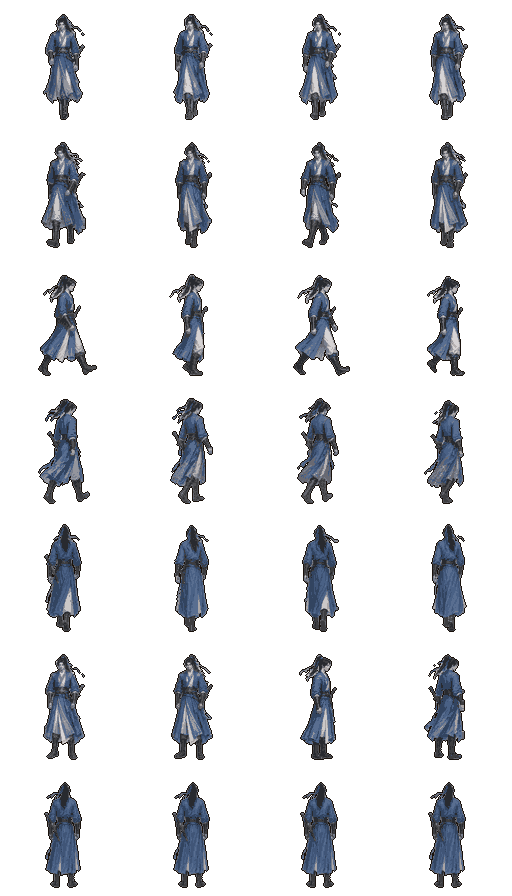
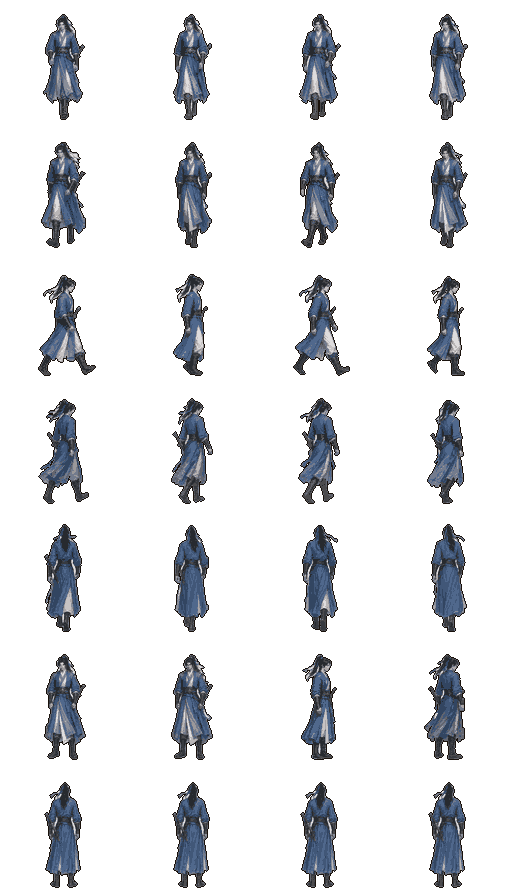
Hero eight-way walk: all eight heroes painted, turn hold on key release, specks and white robes kept
Claude-Session: https://claude.ai/code/session_015NF6nczcB9pq1DHZKmDsF7

diff --git a/scripts/build-hero-walk8.ts b/scripts/build-hero-walk8.ts
@@ -43,7 +43,9 @@ const alphaAt = (r: Raster, x: number, y: number) => r.data[(y * r.w + x) * 4 + 
 
 /** Split a strip into figures at runs of empty columns; tiny slivers (a stray ribbon) join their neighbour. */
 function splitFigures(r: Raster, expected: number): { x0: number; x1: number }[] {
-  const filled = Array.from({ length: r.w }, (_, x) => { for (let y = 0; y < r.h; y++) if (alphaAt(r, x, y) > 40) return true; return false; });
+  // A column belongs to a figure when it has more than a few solid pixels: stray
+  // ribbon wisps and soft edges must not bridge the gap between two figures.
+  const filled = Array.from({ length: r.w }, (_, x) => { let n = 0; for (let y = 0; y < r.h; y++) if (alphaAt(r, x, y) > 110) n++; return n > 6; });
   let spans: { x0: number; x1: number }[] = [];
   for (let x = 0; x < r.w; x++) {
     if (!filled[x]) continue;
@@ -86,7 +88,21 @@ async function cell(f: Figure, scale: number): Promise<Raster> {
   const src = await raster(reduced);
   const out: Raster = { w: CELL, h: CELL, data: new Uint8ClampedArray(CELL * CELL * 4) };
   const left = Math.round(CELL / 2 - f.anchor * scale), top = FEET - h;
-  const solid = (x: number, y: number) => x >= 0 && y >= 0 && x < src.w && y < src.h && alphaAt(src, x, y) >= 110;
+  // Specks cut loose from a ribbon tip (under 24 px) are dropped.
+  const keep = new Uint8Array(src.w * src.h);
+  const seen = new Uint8Array(src.w * src.h);
+  for (let start = 0; start < src.w * src.h; start++) {
+    if (seen[start] || src.data[start * 4 + 3] < 110) continue;
+    const part = [start]; seen[start] = 1;
+    for (let k = 0; k < part.length; k++) {
+      const p = part[k], x = p % src.w, y = (p / src.w) | 0;
+      for (const q of [x > 0 ? p - 1 : -1, x < src.w - 1 ? p + 1 : -1, y > 0 ? p - src.w : -1, y < src.h - 1 ? p + src.w : -1]) {
+        if (q >= 0 && !seen[q] && src.data[q * 4 + 3] >= 110) { seen[q] = 1; part.push(q); }
+      }
+    }
+    if (part.length >= 24) for (const p of part) keep[p] = 1;
+  }
+  const solid = (x: number, y: number) => x >= 0 && y >= 0 && x < src.w && y < src.h && keep[y * src.w + x] === 1;
   for (let y = 0; y < CELL; y++) for (let x = 0; x < CELL; x++) {
     const sx = x - left, sy = y - top, o = (y * CELL + x) * 4;
     if (solid(sx, sy)) {
@@ -107,9 +123,12 @@ for (const hero of PLAYER_CHARACTER_IDS) {
     for (let y = 0; y < CELL; y++) sheet.data.set(c.data.subarray(y * CELL * 4, (y + 1) * CELL * 4), ((oy + y) * sheet.w + ox) * 4);
   };
   for (const [row, dir] of WALK8_DIRECTIONS.entries()) {
-    const strip = await cutOut(`${from}/${hero}/${dir}.png`);
+    // White and pale robes have flat near-white folds: only large, pure-background pockets (between the legs) go.
+    const strip = await cutOut(`${from}/${hero}/${dir}.png`, { pocketTolerance: 4, pocketMin: 400 });
     const r = await raster(strip);
-    const figures = await Promise.all(splitFigures(r, 5).map((span) => figure(strip, r, span)));
+    let spans;
+    try { spans = splitFigures(r, 5); } catch (error) { throw new Error(`${hero}/${dir}.png: ${(error as Error).message} (repaint this strip)`); }
+    const figures = await Promise.all(spans.map((span) => figure(strip, r, span)));
     // One scale per strip: the standing figure is FIGURE px tall, and no pose is wider than the cell allows.
     const scale = Math.min(FIGURE / figures[0].h, ...figures.map((f) => MAX_W / f.w), ...figures.map((f) => (FEET - 2) / f.h));
     const cells = await Promise.all(figures.map((f) => cell(f, scale)));

diff --git a/scripts/test-npc-sheets.ts b/scripts/test-npc-sheets.ts
@@ -157,19 +157,33 @@ await check("heroes: an eight-way walk sheet each — 28 drawn cells, every dire
     const { data, info } = await sharp(file).ensureAlpha().raw().toBuffer({ resolveWithObject: true });
     assert.equal(info.width, 512, file);
     assert.equal(info.height, 7 * 128, file);
-    const cells: Int32Array[] = [];
+    const cells: Uint8Array[] = [];
     for (let cell = 0; cell < 28; cell++) {
       const ox = (cell % 4) * 128, oy = Math.floor(cell / 4) * 128;
-      const mask = new Int32Array(128 * 128);
+      const px = new Uint8Array(128 * 128 * 4);
       let opaque = 0;
-      for (let y = 0; y < 128; y++) for (let x = 0; x < 128; x++) if (data[((oy + y) * 512 + ox + x) * 4 + 3] >= 128) { mask[y * 128 + x] = 1; opaque++; }
+      for (let y = 0; y < 128; y++) for (let x = 0; x < 128; x++) {
+        const i = ((oy + y) * 512 + ox + x) * 4;
+        if (data[i + 3] < 128) continue;
+        opaque++;
+        px.set([data[i], data[i + 1], data[i + 2], 255], (y * 128 + x) * 4);
+      }
       assert.ok(opaque > 1200, `${file} cell ${cell} has a figure (${opaque} px)`);
-      cells.push(mask);
+      cells.push(px);
     }
-    const differ = (a: Int32Array, b: Int32Array) => { let d = 0, n = 0; for (let i = 0; i < a.length; i++) { if (a[i] || b[i]) n++; if (a[i] !== b[i]) d++; } return d / Math.max(1, n); };
+    // Share of the figures' pixels that differ (outline, shape or colour).
+    const differ = (a: Uint8Array, b: Uint8Array) => {
+      let d = 0, n = 0;
+      for (let i = 0; i < a.length; i += 4) {
+        if (!a[i + 3] && !b[i + 3]) continue;
+        n++;
+        if (a[i + 3] !== b[i + 3] || Math.abs(a[i] - b[i]) + Math.abs(a[i + 1] - b[i + 1]) + Math.abs(a[i + 2] - b[i + 2]) > 60) d++;
+      }
+      return d / Math.max(1, n);
+    };
     // The five standing poses (S, SE, E, NE, N) are different views, and each walk has a real stride.
-    for (let i = 20; i < 25; i++) for (let j = i + 1; j < 25; j++) assert.ok(differ(cells[i], cells[j]) > 0.12, `${id}: standing ${i} and ${j} look alike`);
-    for (let row = 0; row < 5; row++) assert.ok(differ(cells[row * 4], cells[row * 4 + 2]) > 0.08, `${id}: walk row ${row} barely moves`);
+    for (let i = 20; i < 25; i++) for (let j = i + 1; j < 25; j++) assert.ok(differ(cells[i], cells[j]) > 0.3, `${id}: standing ${i} and ${j} look alike (${differ(cells[i], cells[j]).toFixed(2)})`);
+    for (let row = 0; row < 5; row++) assert.ok(differ(cells[row * 4], cells[row * 4 + 2]) > 0.15, `${id}: walk row ${row} barely moves (${differ(cells[row * 4], cells[row * 4 + 2]).toFixed(2)})`);
   }
   assert.equal(hasWalk8Sheet("sect_wudang_master_qingxu"), false);
 });

diff --git a/scripts/art-cutout.ts b/scripts/art-cutout.ts
@@ -9,7 +9,15 @@ const TOLERANCE = 34, POCKET_TOLERANCE = 10;
  * enclosed by the figure (40+ px of near-exact background) go too, and the
  * outermost ring of the figure is softened. Returns a PNG with alpha.
  */
-export async function cutOut(path: string): Promise<Buffer> {
+export interface CutOutOptions {
+  /** Max colour distance (0–255) for an enclosed pocket to count as background; 0 keeps every pocket. */
+  pocketTolerance?: number;
+  /** Smallest pocket (in pixels) that is removed. */
+  pocketMin?: number;
+}
+
+export async function cutOut(path: string, options: CutOutOptions = {}): Promise<Buffer> {
+  const pocketTolerance = options.pocketTolerance ?? POCKET_TOLERANCE, pocketMin = options.pocketMin ?? 40;
   const { data, info } = await sharp(path).ensureAlpha().raw().toBuffer({ resolveWithObject: true });
   const { width: w, height: h } = info;
   // Background colour: the median of the border pixels.
@@ -36,7 +44,7 @@ export async function cutOut(path: string): Promise<Buffer> {
   // body, inside a coiled whip): near-exact background colour, 40+ pixels.
   const seen = new Uint8Array(w * h);
   for (let start = 0; start < w * h; start++) {
-    if (isBg[start] || seen[start] || dist(start * 4) > POCKET_TOLERANCE) continue;
+    if (isBg[start] || seen[start] || dist(start * 4) > pocketTolerance) continue;
     const pocket: number[] = [];
     stack.push(start); seen[start] = 1;
     while (stack.length) {
@@ -44,10 +52,10 @@ export async function cutOut(path: string): Promise<Buffer> {
       pocket.push(p);
       const x = p % w, y = (p / w) | 0;
       for (const q of [x > 0 ? p - 1 : -1, x < w - 1 ? p + 1 : -1, y > 0 ? p - w : -1, y < h - 1 ? p + w : -1]) {
-        if (q >= 0 && !seen[q] && !isBg[q] && dist(q * 4) <= POCKET_TOLERANCE) { seen[q] = 1; stack.push(q); }
+        if (q >= 0 && !seen[q] && !isBg[q] && dist(q * 4) <= pocketTolerance) { seen[q] = 1; stack.push(q); }
       }
     }
-    if (pocket.length >= 40) for (const p of pocket) isBg[p] = 1;
+    if (pocketTolerance > 0 && pocket.length >= pocketMin) for (const p of pocket) isBg[p] = 1;
   }
   for (let p = 0; p < w * h; p++) {
     if (isBg[p]) { data[p * 4 + 3] = 0; continue; }

diff --git a/lib/stage/world-runtime.ts b/lib/stage/world-runtime.ts
@@ -331,8 +331,18 @@ export function createWorldRuntime(
     interaction = marker ?? null;
     targetRing?.setPosition(destination.x, destination.y).setVisible(true);
   }
-  function faceMovement(dx: number, dy: number) {
-    playerDir = dir8FromVector(dx, dy, playerDir);
+  // A new heading must hold briefly before the hero turns, so letting go of a
+  // diagonal (two keys never come up on the same frame) doesn't snap them to
+  // the last key's direction. Starting from standing still turns at once.
+  let dirCandidate: Dir8 | null = null, dirCandidateSince = 0, lastMoveAt = -Infinity;
+  const TURN_HOLD_MS = 90;
+  function faceMovement(dx: number, dy: number, turnNow = false) {
+    const now = performance.now();
+    const next = dir8FromVector(dx, dy, playerDir);
+    if (turnNow || next === playerDir || now - lastMoveAt > 150) { playerDir = next; dirCandidate = null; }
+    else if (next !== dirCandidate) { dirCandidate = next; dirCandidateSince = now; }
+    else if (now - dirCandidateSince >= TURN_HOLD_MS) { playerDir = next; dirCandidate = null; }
+    lastMoveAt = now;
     if (Math.abs(dy) > Math.abs(dx)) playerFacing = dy < 0 ? "north" : "south";
     else if (Math.abs(dx) > 0.001) playerFacing = dx < 0 ? "west" : "east";
   }
@@ -831,7 +841,7 @@ export function createWorldRuntime(
               const marker = read().markers.find((entry) => entry.id === id);
               if (marker?.kind === "npc") {
                 const point = markerPoint(marker);
-                faceMovement(point.x - position.x, point.y - position.y);
+                faceMovement(point.x - position.x, point.y - position.y, true);
               }
               marker?.onActivate();
             }
